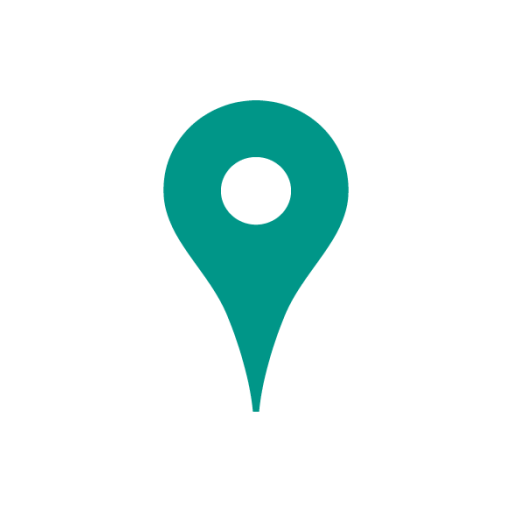
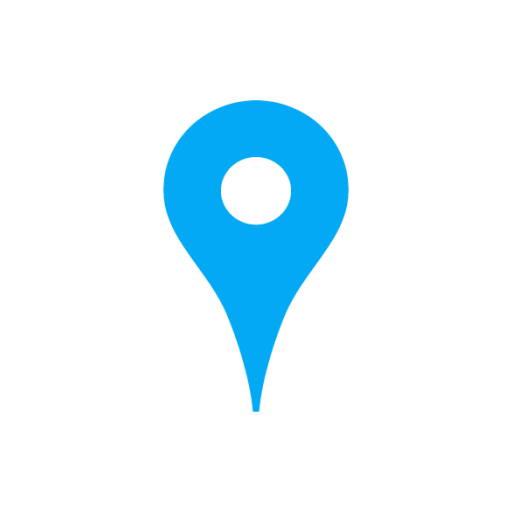
Change styles of action bar, status bar and others on lollipop (API v21)

Changed region(s): [[0.3125, 0.1875, 0.6875, 0.8125]]

diff --git a/Sunshine/app/src/main/java/com/mohammedsazidalrashid/android/sunshine/ForecastFragment.java b/Sunshine/app/src/main/java/com/mohammedsazidalrashid/android/sunshine/ForecastFragment.java
@@ -131,7 +131,7 @@ public class ForecastFragment extends Fragment
 
         mSwipeRefreshLayout = (SwipeRefreshLayout) rootView.findViewById(R.id.swipe_refresh_layout);
         mSwipeRefreshLayout.setOnRefreshListener(this);
-        mSwipeRefreshLayout.setColorSchemeResources(R.color.teal500);
+        mSwipeRefreshLayout.setColorSchemeResources(R.color.light_blue_500);
 
         mForecastAdapater = new ArrayAdapter<>(
                 getActivity(),
